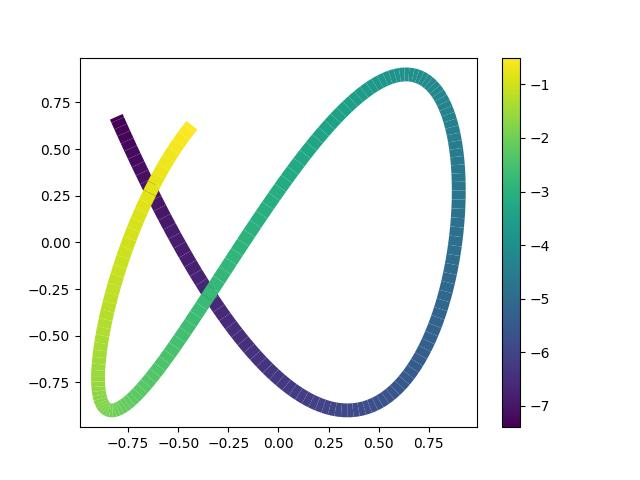
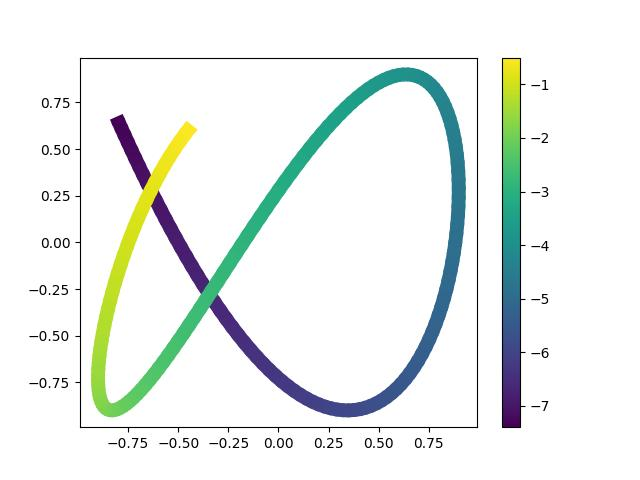
feat: support multiple plot (#8)

diff --git a/src/matplotlib_multicolored_line/_main.py b/src/matplotlib_multicolored_line/_main.py
@@ -11,12 +11,11 @@ from numpy.typing import ArrayLike
 
 
 def colored_line(
-    x: ArrayLike,
-    y: ArrayLike,
+    *args: ArrayLike,
     c: ArrayLike,
+    start: ArrayLike = 0.5,
+    end: ArrayLike = 0,
     ax: Axes | None = None,
-    scalex: bool = True,
-    scaley: bool = True,
     **kwargs: Any,
 ) -> LineCollection:
     """
@@ -29,15 +28,19 @@ def colored_line(
 
     Parameters
     ----------
-    x, y : array-like
-        The horizontal and vertical coordinates of the data points.
+    *args : array-like
+        The horizontal and vertical coordinates of the data points
+        of shape (N,) or (N, m).
     c : array-like
         The color values, which should be the same size as x and y.
     ax : matplotlib.axes.Axes, optional
         The axes to plot on. If not provided, the current axes will be used.
-    scalex, scaley : bool
-        These parameters determine if the view limits are adapted to the data limits.
-        The values are passed on to autoscale_view.
+    start : array-like, optional
+        The ratio of the point where the color starts.
+        Should be between 0 and 1.
+    end : array-like, optional
+        The ratio of the point where the color changes.
+        Should be between 0 and 1.
     **kwargs : Any
         Any additional arguments to pass to matplotlib.collections.LineCollection
         constructor. This should not include the array keyword argument because
@@ -56,25 +59,42 @@ def colored_line(
             stacklevel=2,
         )
 
-    xy = np.stack((x, y), axis=-1)
-    xy_mid = np.concat(
-        (xy[0, :][None, :], (xy[:-1, :] + xy[1:, :]) / 2, xy[-1, :][None, :]), axis=0
-    )
-    segments = np.stack((xy_mid[:-1, :], xy, xy_mid[1:, :]), axis=-2)
-    # Note that segments is [
-    #   [[x[0], y[0]], [x[0], y[0]], [mean(x[0], x[1]), mean(y[0], y[1])]],
-    #   [[mean(x[0], x[1]), mean(y[0], y[1])], [x[1], y[1]], [mean(x[1], x[2]), mean(y[1], y[2])]],
-    #   ...
-    #   [[mean(x[-2], x[-1]), mean(y[-2], y[-1])], [x[-1], y[-1]], [x[-1], y[-1]]]
-    # ]
+    # parse args
+    if len(args) == 1:
+        y = args[0]
+        x = np.arange(len(y))
+    elif len(args) == 2:
+        x, y = args
+    else:
+        raise ValueError("Invalid number of arguments. Provide either x and y or just y.")
 
-    kwargs["array"] = c
+    # ensure x, y, c are 1D or 2D arrays
+    x, y, c = map(np.asarray, (x, y, c))
+    if x.ndim == 1:
+        x = x[:, None]
+    if y.ndim == 1:
+        y = y[:, None]
+    x, y = np.broadcast_arrays(x, y)
+
+    # (N, m, 2)
+    xy = np.stack((x, y), axis=-1)
+    # (N, m, 2)
+    xy_start = np.concat(
+        (xy[0, :, :][None, :, :], xy[:-1, :, :] * (1 - start) + xy[1:, :, :] * start), axis=0
+    )
+    xy_end = np.concat(
+        (xy[:-1, :, :] * end + xy[1:, :, :] * (1 - end), xy[-1, :][None, :, :]), axis=0
+    )
+    segments = np.stack((xy_start, xy, xy_end), axis=-2)
+    segments = np.reshape(segments, (-1, segments.shape[-2], segments.shape[-1]))
+
+    kwargs["array"] = c.reshape(-1)
     lc = LineCollection(segments, **kwargs)
 
     # Plot the line collection to the axes
     ax = ax or plt.gca()
     ax.add_collection(lc)
-    ax.autoscale_view(scalex=scalex, scaley=scaley)
+    ax.autoscale_view()
 
     # Return the LineCollection object
     return lc

diff --git a/tests/test_main.py b/tests/test_main.py
@@ -20,7 +20,7 @@ def test_main() -> None:
     y = 0.9 * np.cos(1.6 * t)
 
     fig, ax = plt.subplots()
-    lc = colored_line(x, y, t, ax, linewidth=10)
+    lc = colored_line(x, y, c=t, ax=ax, linewidth=10)
     fig.colorbar(lc)
     fig.savefig(CACHE_PATH / "example.jpg")
 
@@ -31,6 +31,17 @@ def test_main_small() -> None:
     c = [1, 2, 3, 4, 5]
 
     fig, ax = plt.subplots()
-    lc = colored_line(x, y, c, ax, linewidth=10)
+    lc = colored_line(x, y, c=c, ax=ax, linewidth=10)
     fig.colorbar(lc)
     fig.savefig(CACHE_PATH / "example_small.jpg")
+
+
+def test_multiple() -> None:
+    np.random.seed(0)
+    y = np.random.normal(size=(5, 2))
+    c = np.random.normal(size=(5, 2))
+
+    fig, ax = plt.subplots()
+    lc = colored_line(y, c=c, ax=ax, linewidth=10)
+    fig.colorbar(lc)
+    fig.savefig(CACHE_PATH / "example_multiple.jpg")

diff --git a/README.md b/README.md
@@ -62,13 +62,22 @@ x = 0.9 * np.sin(t)
 y = 0.9 * np.cos(1.6 * t)
 
 fig, ax = plt.subplots()
-lc = colored_line(x, y, t, ax, linewidth=5)
+lc = colored_line(x, y, c=t, ax=ax, linewidth=10)
 fig.colorbar(lc)
 ```
 
 ![Result](https://raw.githubusercontent.com/34j/matplotlib-multicolored-line/main/example.jpg)
 
-![Result 2](https://raw.githubusercontent.com/34j/matplotlib-multicolored-line/main/example_small.jpg)
+```python
+y = np.random.normal(size=(5, 2))
+c = np.random.normal(size=(5, 2))
+
+fig, ax = plt.subplots()
+lc = colored_line(y, c=c, ax=ax, linewidth=10)
+fig.colorbar(lc)
+```
+
+![Result 2](https://raw.githubusercontent.com/34j/matplotlib-multicolored-line/main/example_multiple.jpg)
 
 ## Contributors ✨
 
